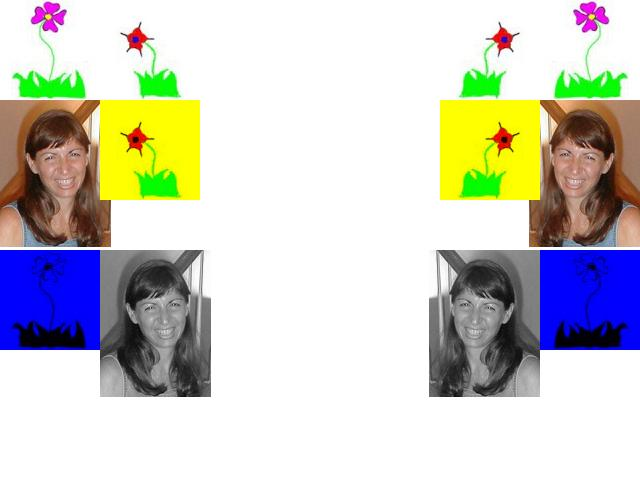
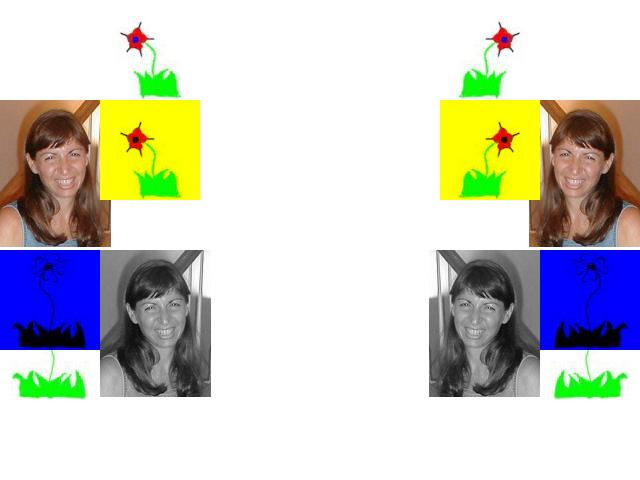
16

diff --git a/Unit16/src/PictureTester.java b/Unit16/src/PictureTester.java
@@ -154,7 +154,7 @@ public class PictureTester
     //testKeepOnlyGreen();
     //testNegate();
     //testGrayscale();
-    //testFixUnderwater();
+    testFixUnderwater();
     //testMirrorVertical();
     //testMirrorTemple();
     //testMirrorArms();
@@ -181,6 +181,6 @@ public class PictureTester
 	  //testMirrorDiagonal();
 	  //testMirrorArms();
 	  //testMirrorGull();
-	  testMyCollage();
+	  //testMyCollage();
   }
 }
